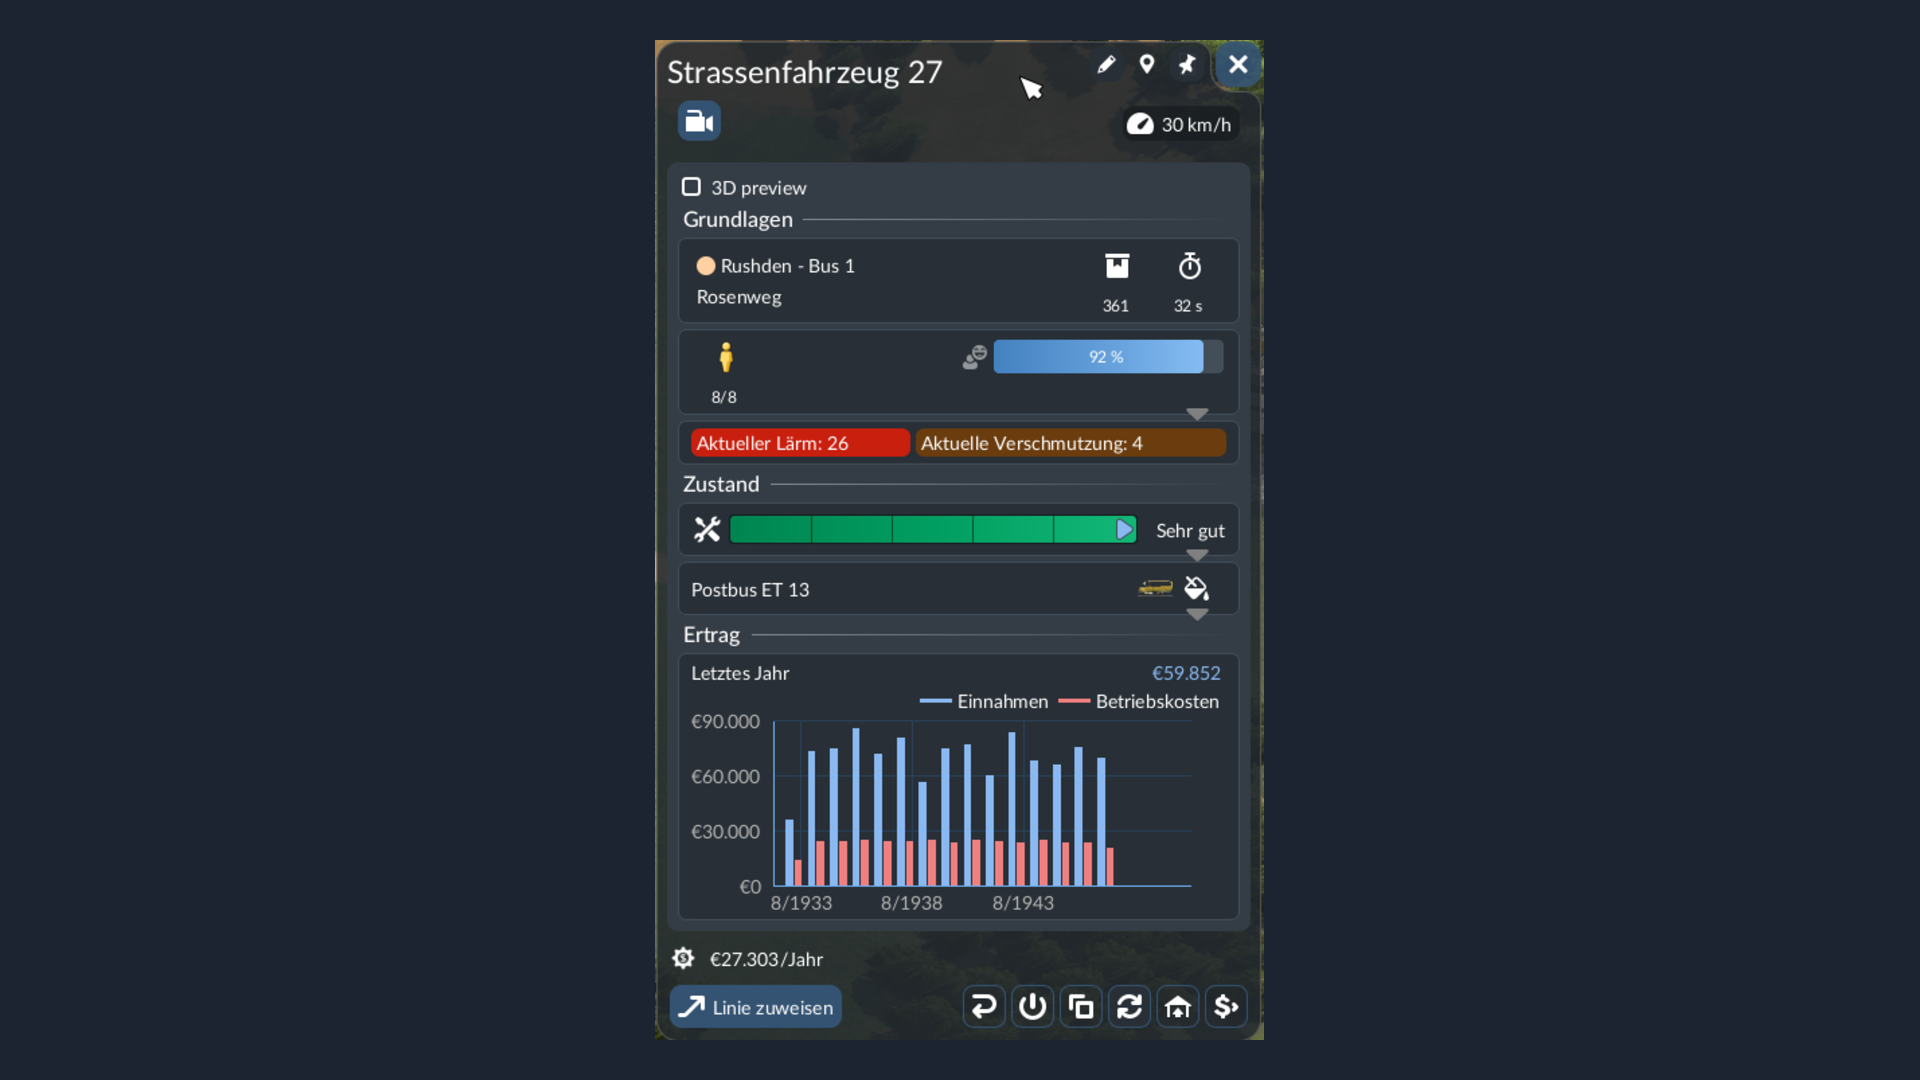
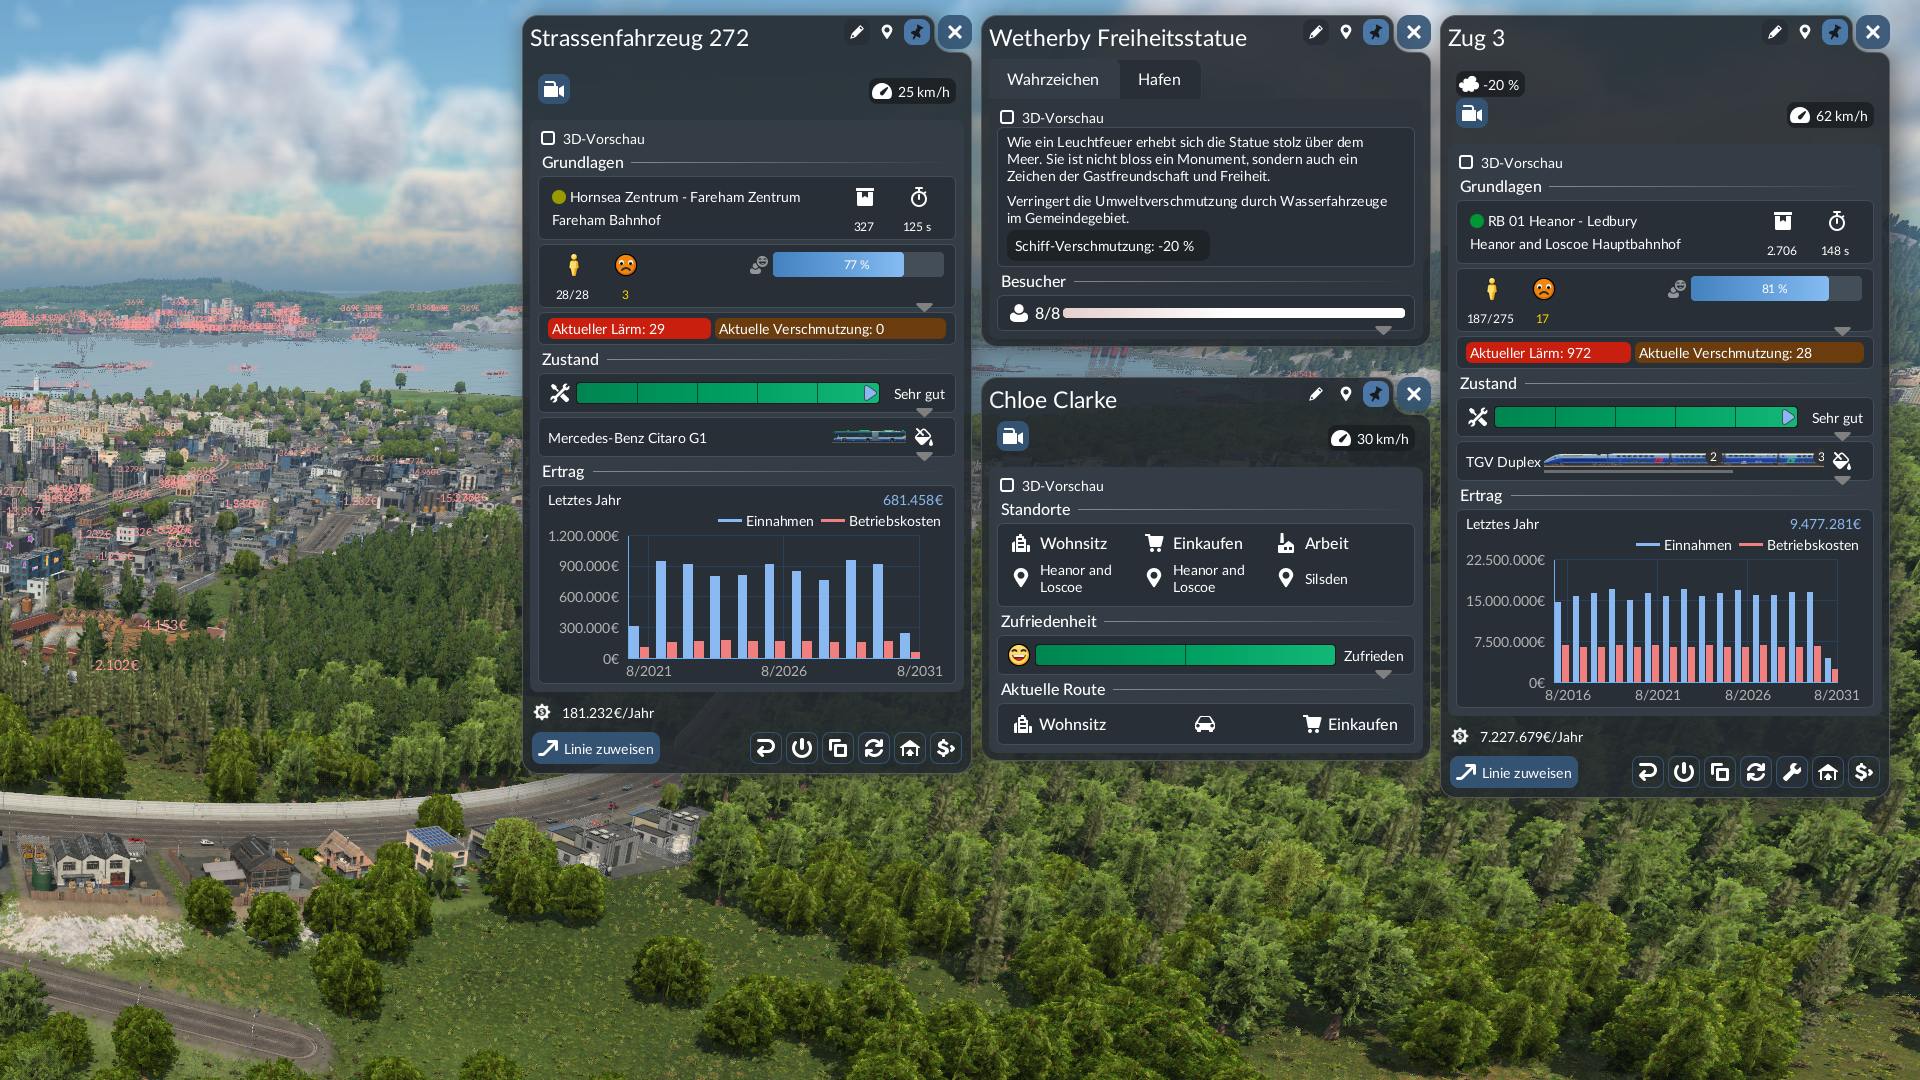
docs: rename to 3D Preview Toggle, add changelog and new title image

diff --git a/README.md b/README.md
@@ -1,8 +1,9 @@
-# Vehicle 3D Preview Toggle (Transport Fever 3)
+# 3D Preview Toggle (Transport Fever 3)
 
 A small UI mod for Transport Fever 3 that adds a **"3D preview" checkbox to
-vehicle windows**. Unchecking it removes the live 3D camera preview from all
-vehicle windows; the camera button and the speed display stay in place.
+vehicle, person and landmark windows**. Unchecking it removes the live 3D
+camera preview from all these windows; in vehicle windows the camera button
+and the speed display stay in place. (Formerly "Vehicle 3D Preview Toggle".)
 
 Why: an open vehicle preview can cost a lot of performance. On my machine (Linux/Vulkan) it
 roughly halved the frame rate as long as the window is open (GPU load drops
@@ -10,7 +11,7 @@ from ~99 % to ~70 %, see the
 [forum report](https://forum.urbangames.com/forum/index.php?thread/3958-verringerte-performance-mit-fahrzeugfenster/)).
 With the preview switched off the frame rate goes back to normal.
 
-- The checkbox state is shared by all vehicle windows and lasts for the
+- The checkbox state is shared by all these windows and lasts for the
   session.
 - The initial state ("3D preview at game start", Off/On) can be chosen per
   savegame in the mod settings when loading a game.
@@ -38,16 +39,20 @@ React-like component system. Mods can hook into it through
   which loads `preview_toggle.script.lua` into the GUI Lua state as soon as
   the game UI is built.
 - The script wraps `builtin.EntityRendererComponent` (the live preview). For
-  vehicles it returns an empty placeholder while the preview is off, so no
+  vehicles, persons and landmarks it returns an empty placeholder while the preview is off, so no
   preview camera is created at all. It also re-keys the enclosing
   `FloatingLayout` so the overlay widgets get fresh geometry when toggling.
   While the preview is off, that layout is replaced by two stacked rows:
   top-anchored overlays (specialisations, modifiers such as a landmark's
   pollution bonus) first, the cockpit button and speed below, so they no
   longer overlap in a zero-height strip.
-- `toggle.res.lua` registers the checkbox as a plugin at the
-  `VehicleEowExtensionPoint`, i.e. it is rendered like the game's own
-  vehicle window widgets.
+  Landmark windows (`PerkWindowContent`, also used for company headquarters)
+  are recognised by the recipe that calls the renderer; there the preview
+  simply disappears.
+- `toggle.res.lua`, `toggle_person.res.lua` and `toggle_perk.res.lua`
+  register the checkbox as a plugin at the `VehicleEowExtensionPoint`,
+  `SimPersonEowExtensionPoint` and `PerkEowExtensionPoint`, i.e. it is
+  rendered like the game's own entity window widgets.
 - The mod parameter is declared in `mod.json` and read with
   `api.engine.config.getModParams()` (values are 1-based).
 - `strings.json` holds the translations.
@@ -63,9 +68,13 @@ kampfmoehre_preview_toggle_1/      the mod (this is what gets published)
   content/gui/kampfmoehre_preview_toggle/
     entry.res.lua                  plugin registration (entry point)
     toggle.res.lua                 plugin registration (vehicle window)
+    toggle_person.res.lua          plugin registration (person window)
+    toggle_perk.res.lua            plugin registration (landmark window)
     preview_toggle.script.lua      the actual code
     preview_toggle.css.lua         style for the overlay rows (preview off)
 sync.sh                            copies the mod into the game's staging area
+CHANGELOG.md                       rendered into the EN description with
+                                   python3 -I ../changelog_to_modinfo.py . kampfmoehre_preview_toggle_1
 ```
 
 Workflow (Linux):

diff --git a/CHANGELOG.md b/CHANGELOG.md
@@ -1,0 +1,23 @@
+# Changelog
+
+## 0.6.0 (2026-10-28)
+
+- Landmark windows (and company headquarters) get the checkbox too and lose their 3D preview while it is off.
+- Renamed from "Vehicle 3D Preview Toggle" to "3D Preview Toggle".
+
+## 0.5.0 (2026-10-15)
+
+- With the preview off, the overlays no longer overlap: modifiers and specialisations in a first row, cockpit
+  button and speed in a second row below.
+
+## 0.4.0 (2026-10-06)
+
+- Person windows (showing the person's private car) get the checkbox too.
+
+## 0.3.3 (2026-10-03)
+
+- Fixed an error together with other mods that call the 3D preview with a reference argument.
+
+## 0.3.2 (2026-10-02)
+
+- First release: "3D preview" checkbox in vehicle windows, initial state as mod setting.
